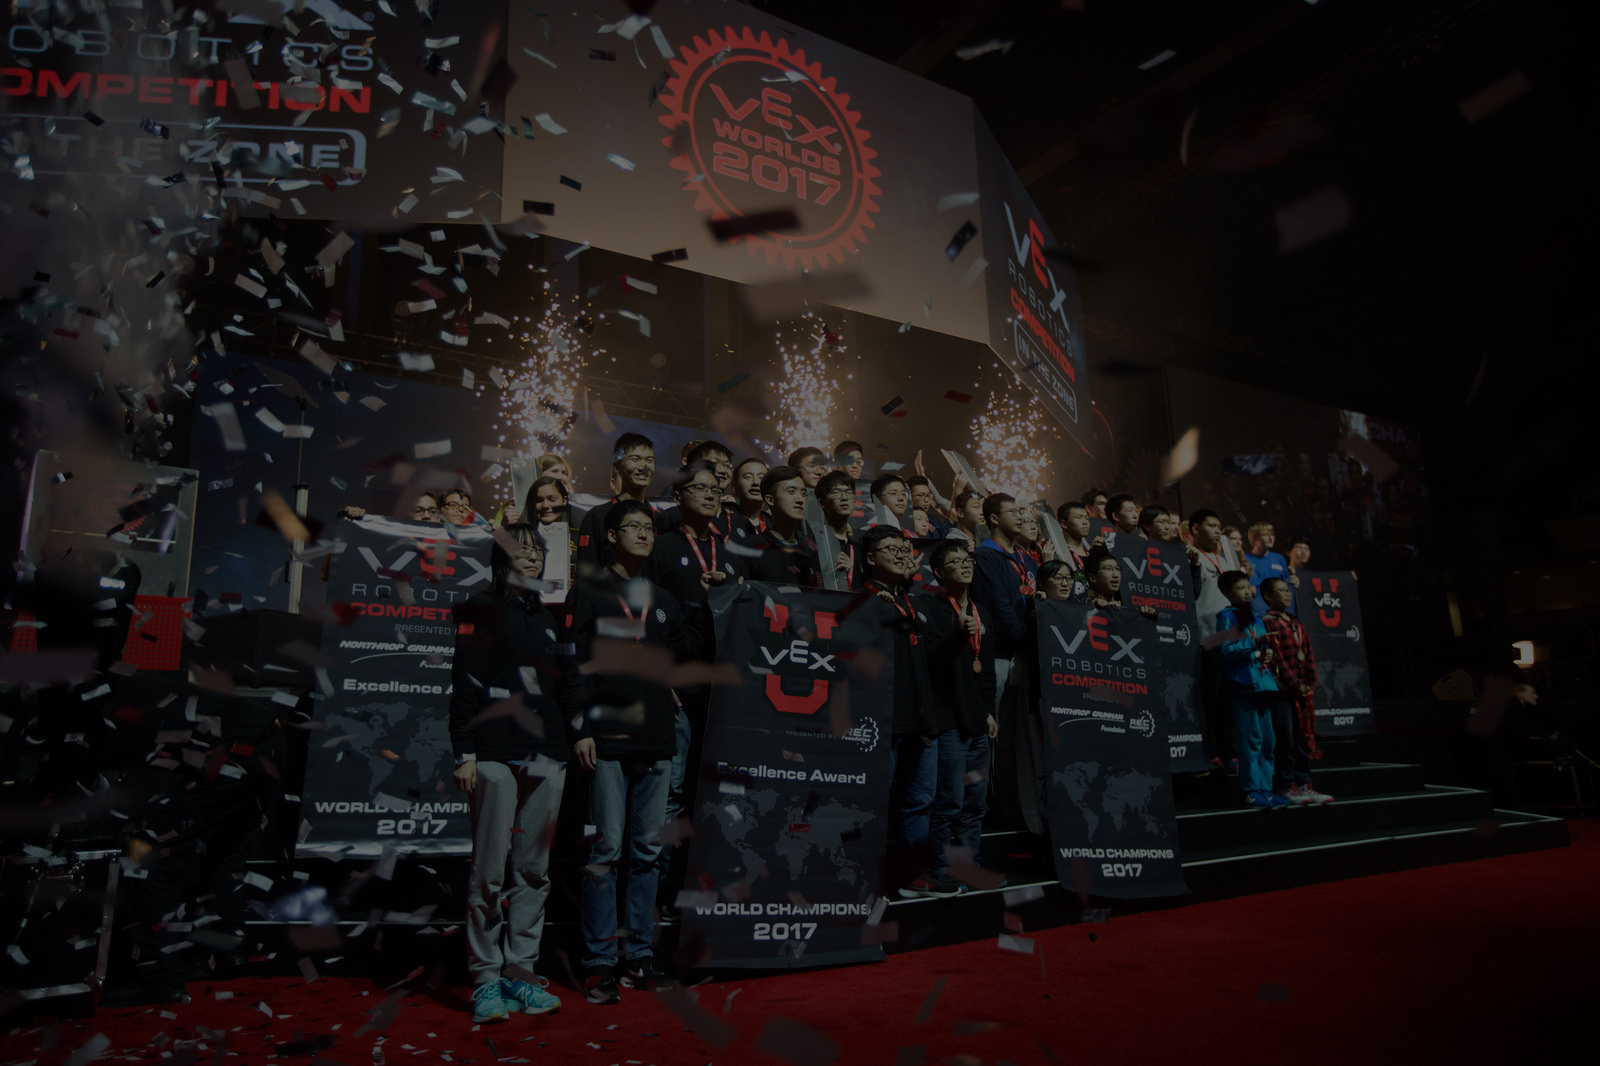
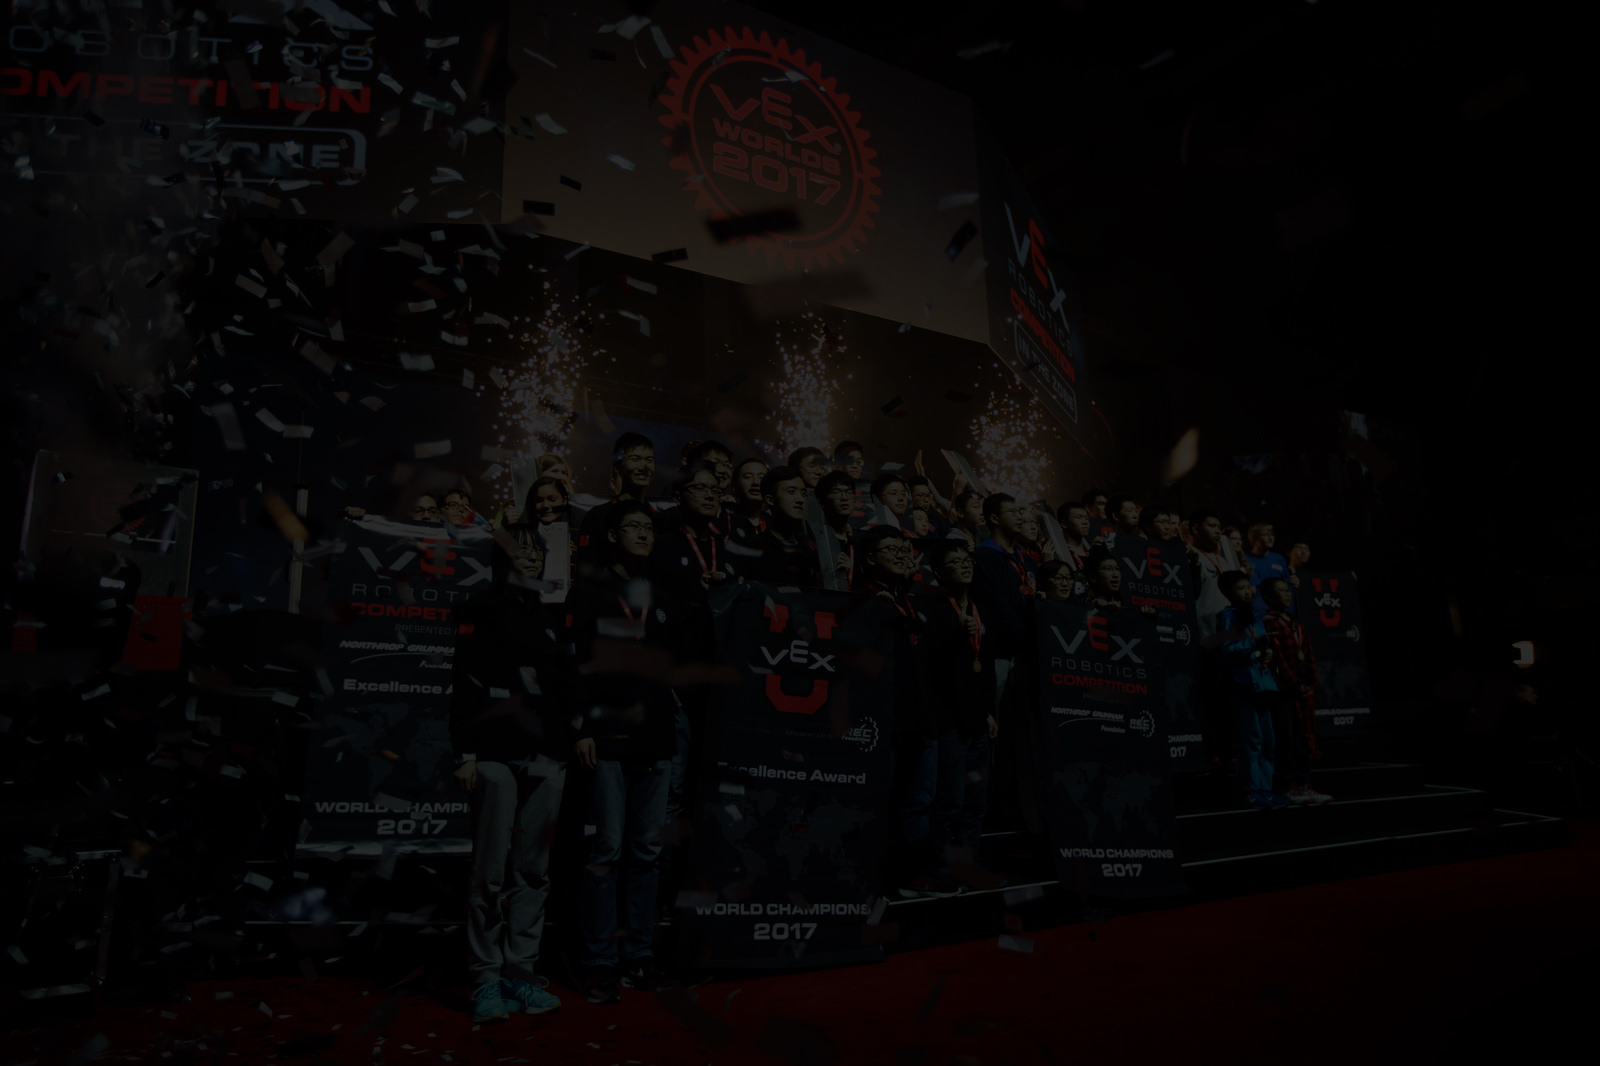
Edit copy, darken image

diff --git a/index.html b/index.html
@@ -50,7 +50,7 @@
             </div>
             <div class="hero-body">
                 <div class="container">
-                    <h1 class="title">The largest high school robotics competition is back for 2018.</h1>
+                    <h1 class="title">The largest high school robotics program is back for 2018.</h1>
                     <h2 class="subtitle">Begin the journey to the world championship at the Irvington VEX Robotics Competition.</h2>
                 </div>
                 <div class="container is-hidden-mobile">
